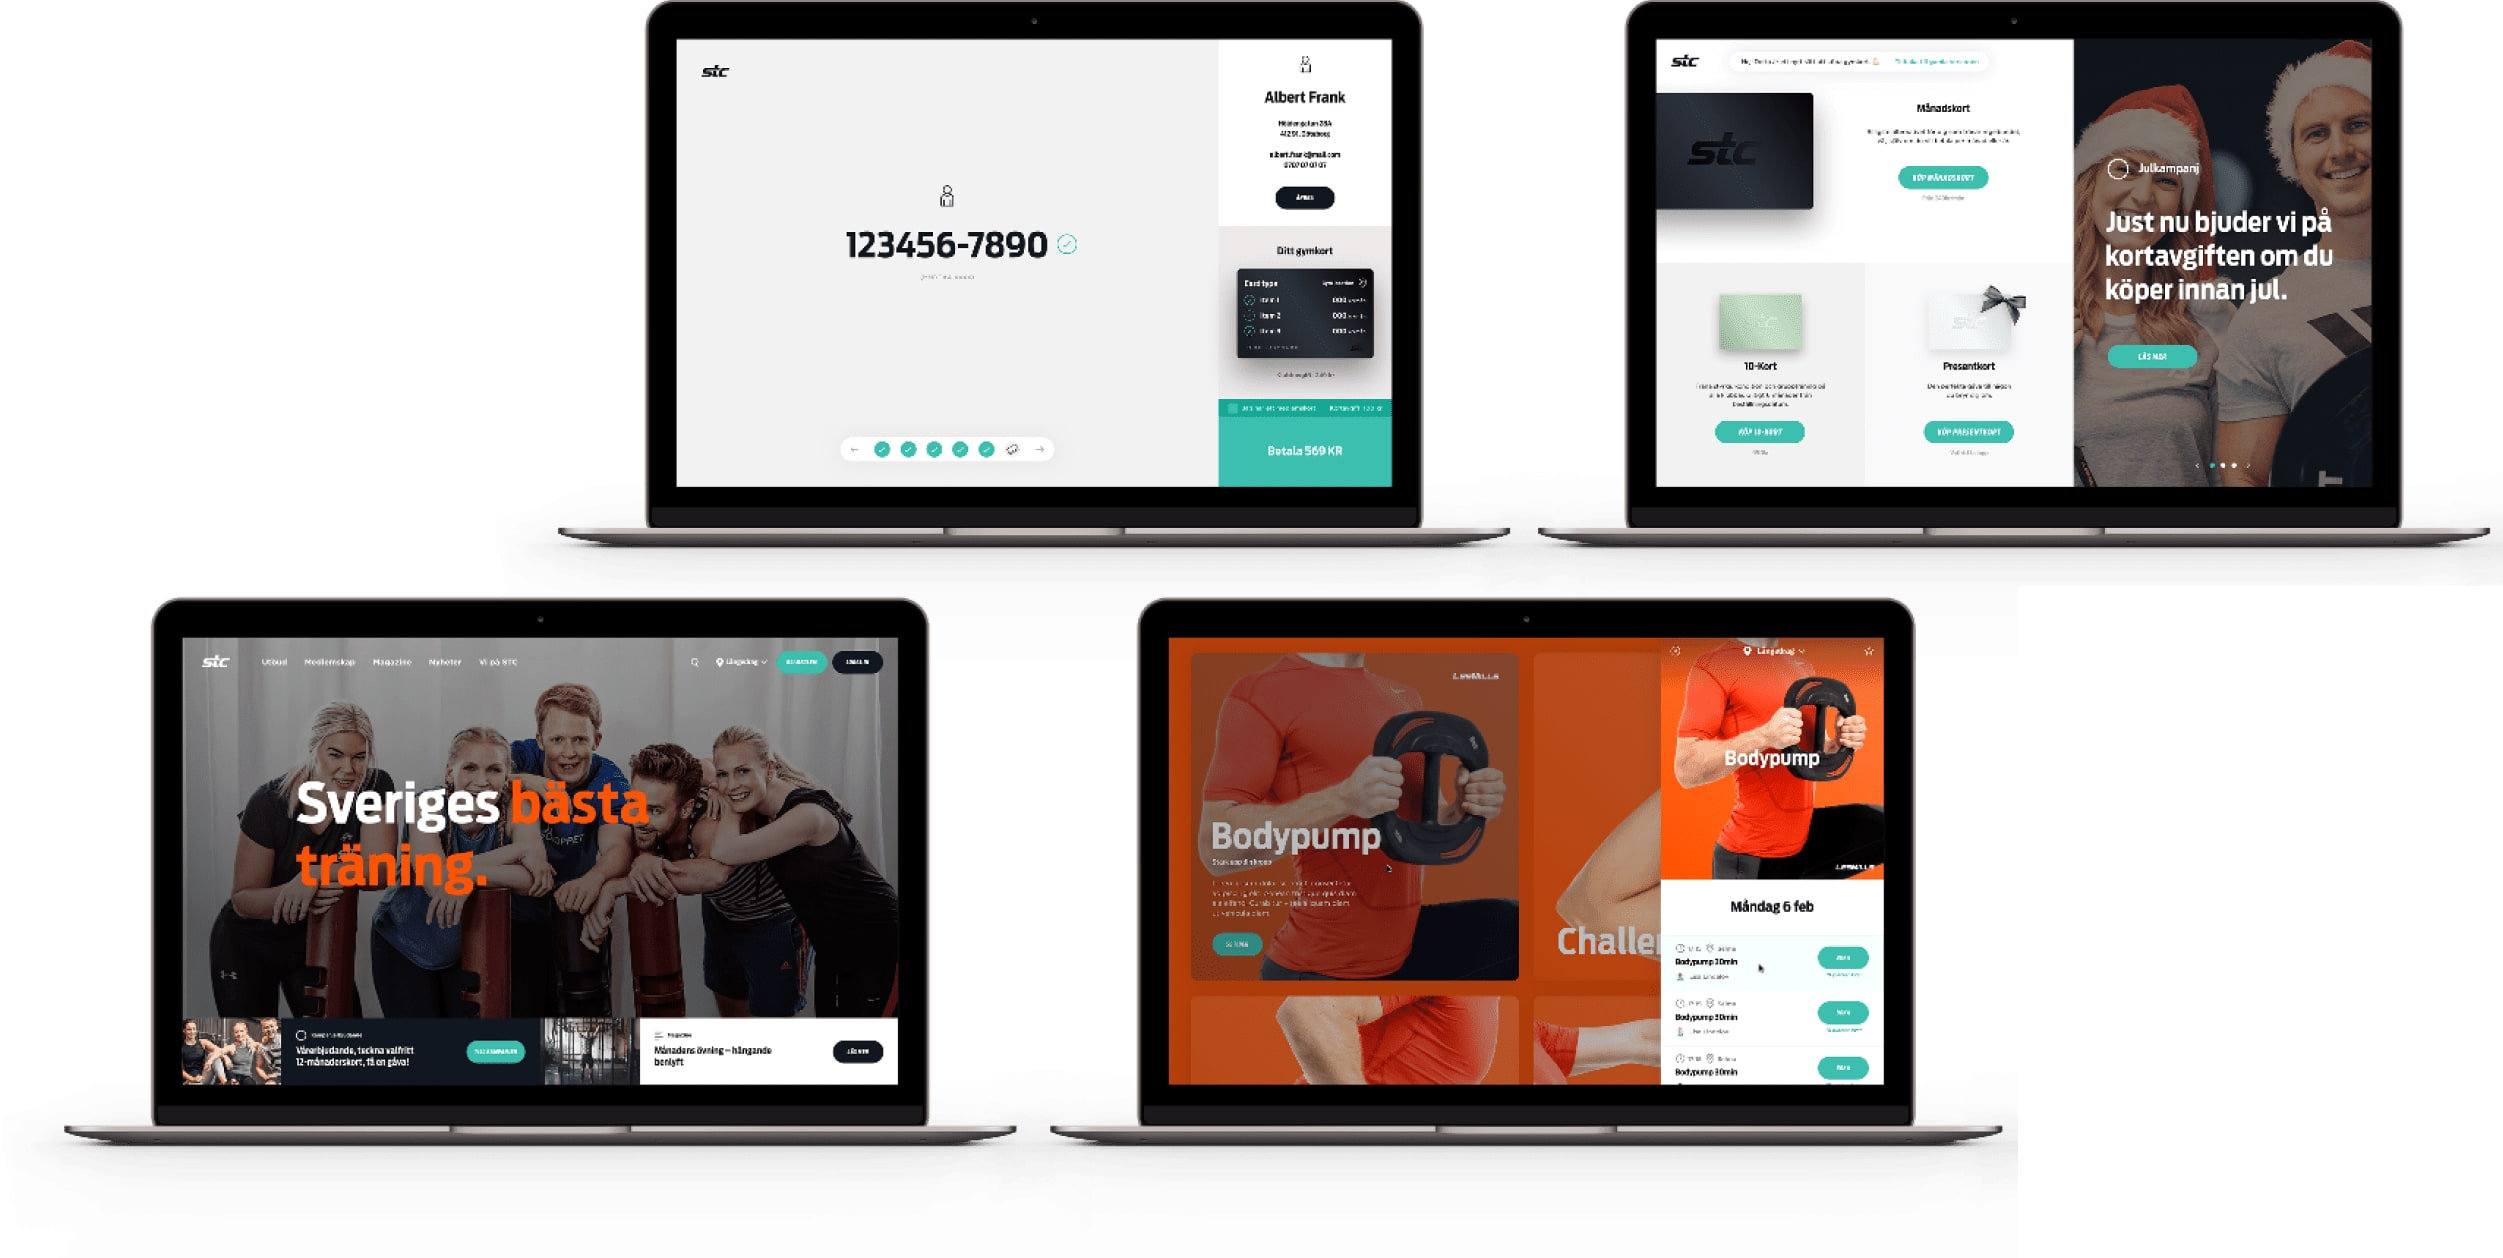
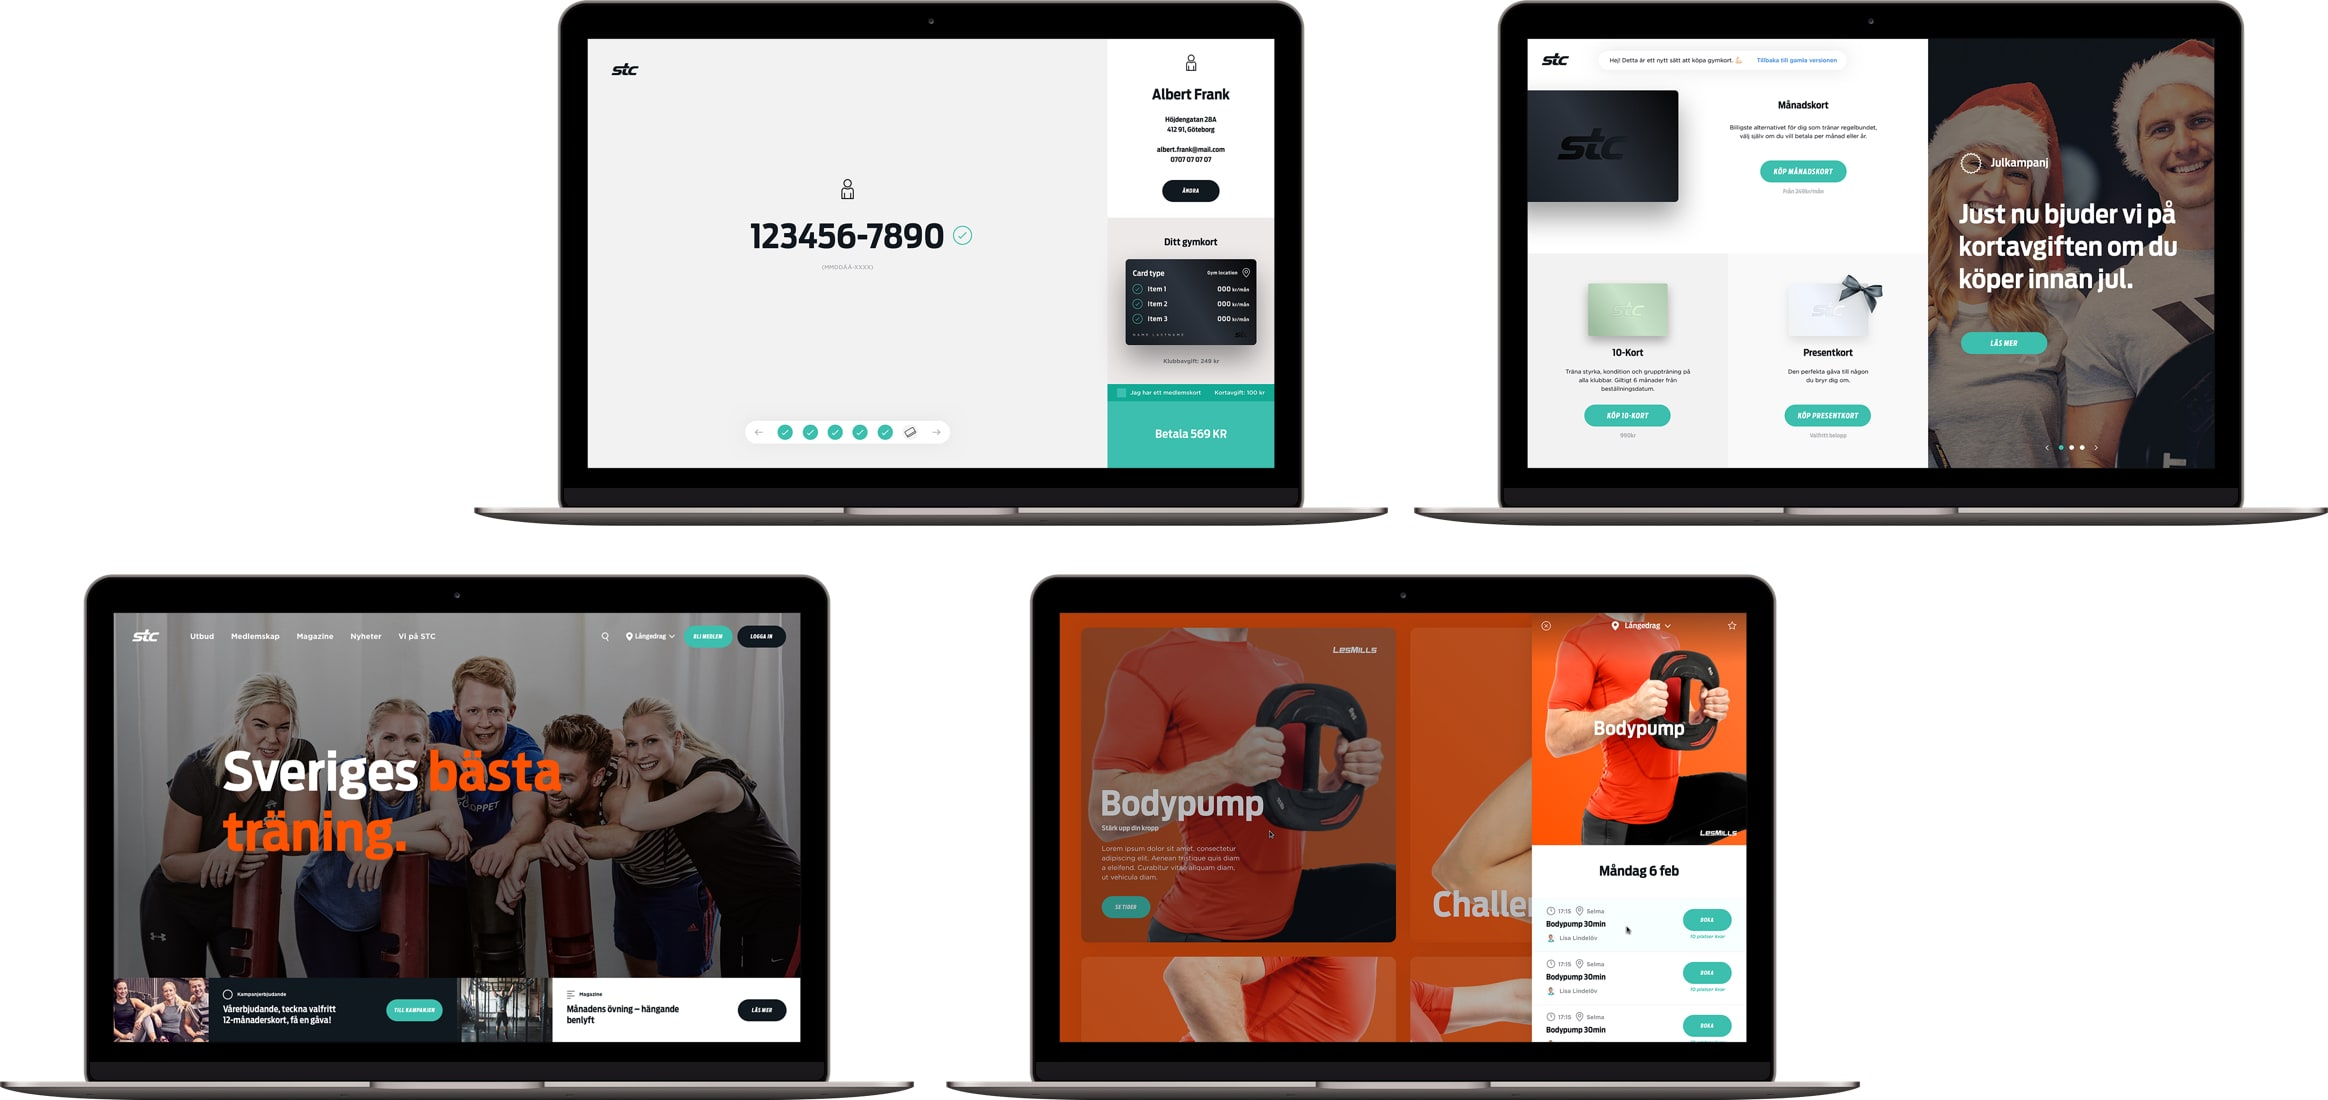
Edit images for STC case

diff --git a/src/cases/stc.js b/src/cases/stc.js
@@ -105,7 +105,7 @@ export default class extends Component {
               <DeviceBlock
                 customClass={s.deviceBlock}
                 ios='https://apps.apple.com/us/app/stc-training-club/id575468749'
-                andriod='dfsdfdsf'
+                // andriod='https://....'
               />
               <img class={s.devices} src={require('../images/cases/stc-6.jpg')} />
             </CenterBlock>

diff --git a/src/cases/stc.sass b/src/cases/stc.sass
@@ -22,10 +22,10 @@
       padding-bottom: 0
 
       > img
-        margin-right: -53rem
+        margin: 0 -53rem 5rem 0
         max-height: 63.5rem
         width: auto
-        height: 45vw
+        height: 30vw
 
       @media screen and (max-width: 720px)
         padding-bottom: 4rem
